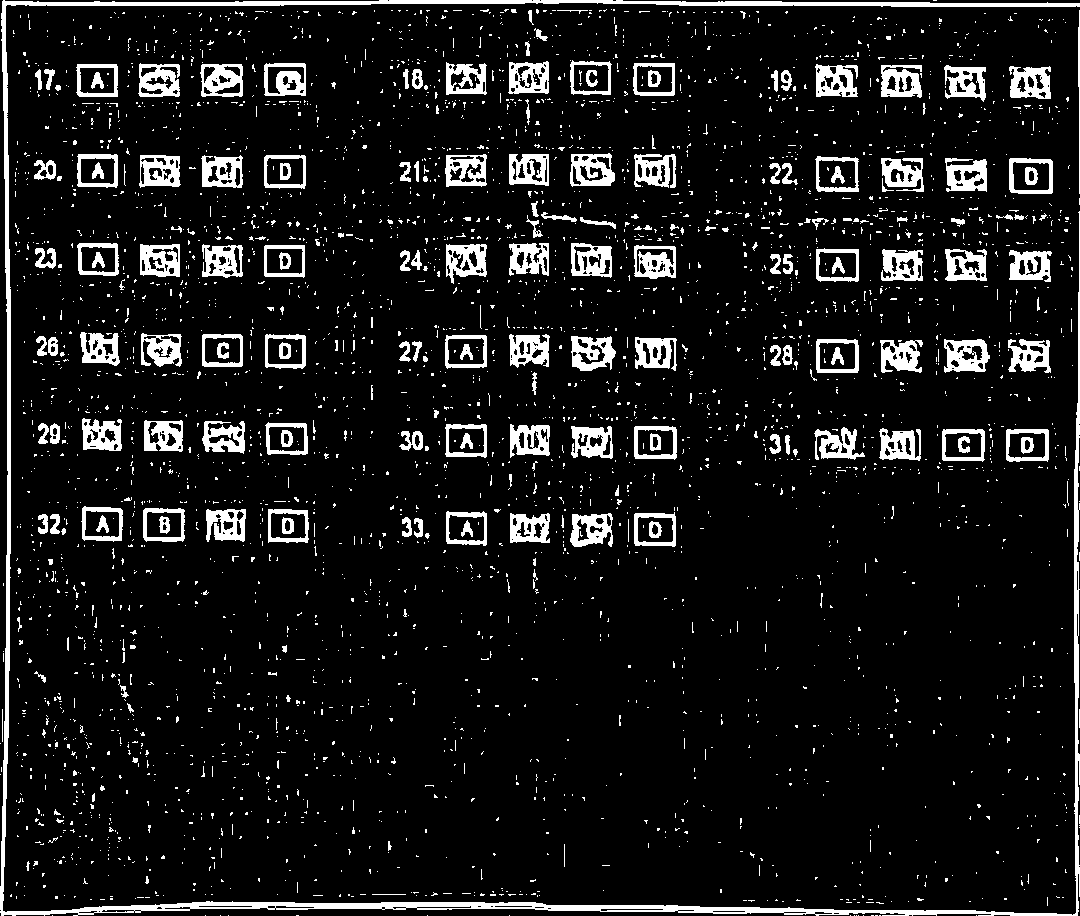
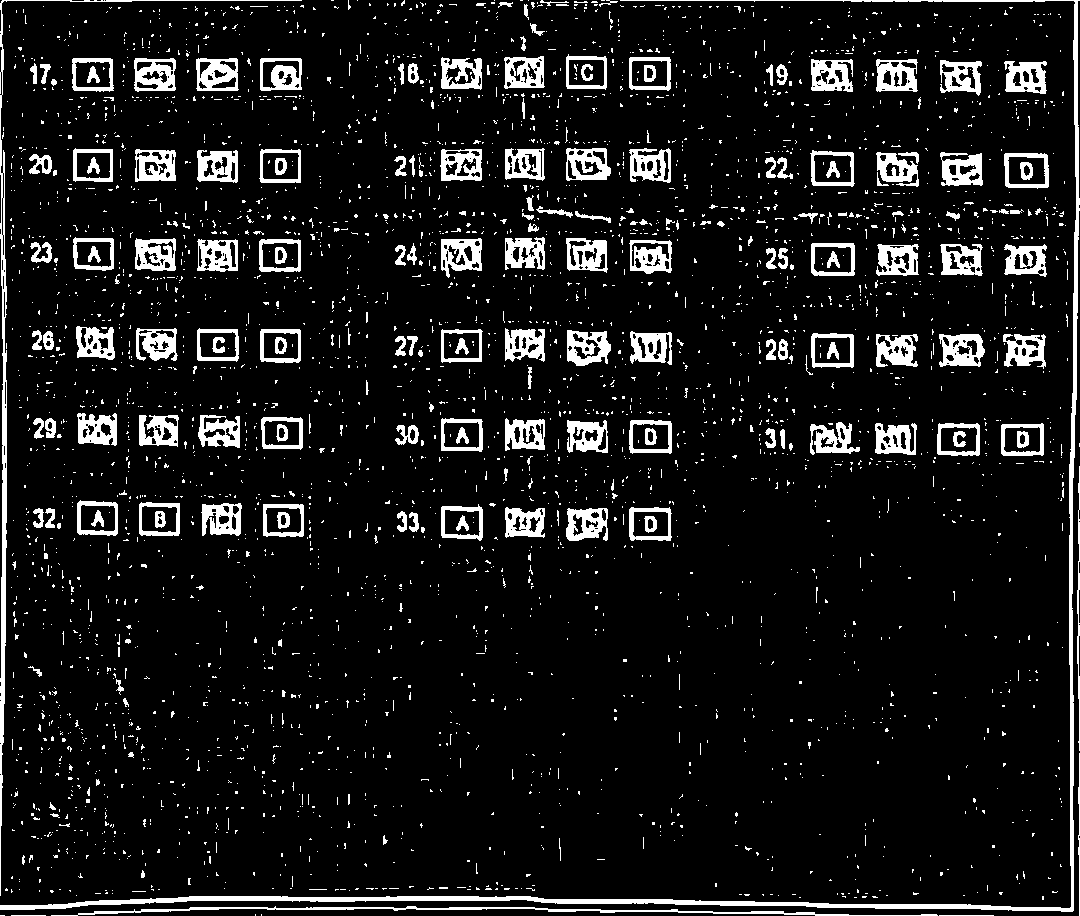
引入双重涂写标准,提高成功识别率，解决部分反光问题,但是有些反光区域在处理后得到的白色区域面积比例和未填涂的基本相似，不再考虑

diff --git a/answer-sheet-scan/utils.py b/answer-sheet-scan/utils.py
@@ -156,11 +156,8 @@ def get_ans(ans_img, rows):
     # 选项个数
     interval = get_item_interval()
     my_score = 0
-
     items_per_row = get_items_per_row()
     answer_list = []
-    stand_th = 0
-    last_white = 0;
     all_percents = []
     for i,row in enumerate(rows):
         for k in range(len(row)/settings.CHOICES_PER_QUE):
@@ -172,21 +169,16 @@ def get_ans(ans_img, rows):
     all_percents.sort()
     stand_th_low = 0
     stand_th_up = 0
+    # 找边界值
     for i,p in enumerate(all_percents[1:]):
         if p - all_percents[i] > 0.1:
-            if stand_th_low == 0:
+            if stand_th_low == 0 and i < len(all_percents)*2/3:#填涂的选项应该不会超过三分之二
                 stand_th_low = p
-            elif stand_th_up ==0:
-                stand_th_up = p
-            else:
                 break
-    if stand_th_up == 0:
-        if all_percents[-1]-stand_th_low >0.1:
-            stand_th_up = stand_th_low+0.1
-        else:
-            stand_th_up = all_percents[-1]
-            
-        
+    if get_ave(all_percents) < 0.3 and get_median(all_percents) < 0.3 and stand_th_low == 0:# 认为全涂了
+        stand_th_low == 0
+    
+    #print stand_th_low    
     for i, row in enumerate(rows):
         # 从左到右为当前题目的气泡轮廓排序，然后初始化被涂画的气泡变量
         for k in range(len(row)/settings.CHOICES_PER_QUE):
@@ -202,29 +194,25 @@ def get_ans(ans_img, rows):
                 except IndexError:
                     percent = 1
                 percent_list.append({'col': k + 1, 'row': i + 1, 'percent': percent, 'choice': settings.CHOICES[j]})
-
-            #percent_list.sort(key=lambda x: x['percent'])
-            #temp_percent_list = percent_list[:];
-            #temp_percent_list.sort(key=lambda x: x['percent'])
-            #temp_percent_list.reverse()
-            
-            choice_pos_n_ans = (percent_list[0]['row'], percent_list[0]['col'], percent_list[0]['choice'])
-            choice_pos = (percent_list[0]['row'], percent_list[0]['col'])
+                
+            temp_percent_list = percent_list[:];
+            temp_percent_list.sort(key=lambda x: x['percent'])
+            temp_percent_list.reverse()
+            settings.WHITE_RATIO_PER_CHOICE = 0
+            if stand_th_low == 0:
+                for i,x in enumerate(temp_percent_list[1:]):
+                    if temp_percent_list[i]['percent'] - x['percent'] > 0.1: 
+                            settings.WHITE_RATIO_PER_CHOICE = temp_percent_list[i]['percent']
+                            break
+                if settings.WHITE_RATIO_PER_CHOICE == 0:
+                    settings.WHITE_RATIO_PER_CHOICE = 0.35
+                    
             ans_str = ""
-            '''
-             for i,x in enumerate(temp_percent_list[1:]):
-                if temp_percent_list[i]['percent'] - x['percent'] > 0.04: 
-                    if stand_th == 0:
-                        stand_th = temp_percent_list[i]['percent']#标准的没有填涂
-                    settings.WHITE_RATIO_PER_CHOICE = x['percent']+0.01
-                    if last_white == 0 or abs(settings.WHITE_RATIO_PER_CHOICE-last_white) < 0.02:
-                        last_white = settings.WHITE_RATIO_PER_CHOICE
-                        break
-            '''
-           
             for temp_choice in percent_list:
-                if temp_choice['percent'] <stand_th_low or temp_choice['percent']>stand_th_up:
-                #if (temp_choice['percent'] < settings.WHITE_RATIO_PER_CHOICE or temp_choice['percent'] < (stand_th-0.1)  ) or (stand_th!=0 and temp_choice['percent'] > (stand_th+0.2)):
+                #print stand_th_low
+                if stand_th_low != 0 and temp_choice['percent'] <stand_th_low :#or temp_choice['percent']>stand_th_up+0.3:
+                    ans_str += temp_choice['choice']
+                elif stand_th_low == 0 and temp_choice['percent'] < settings.WHITE_RATIO_PER_CHOICE:
                     ans_str += temp_choice['choice']
             answer_list.append(ans_str) 
             print percent_list
